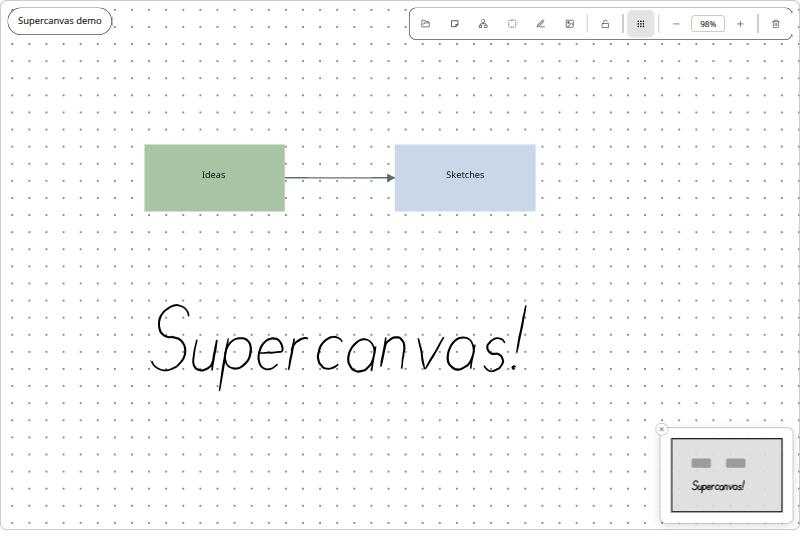
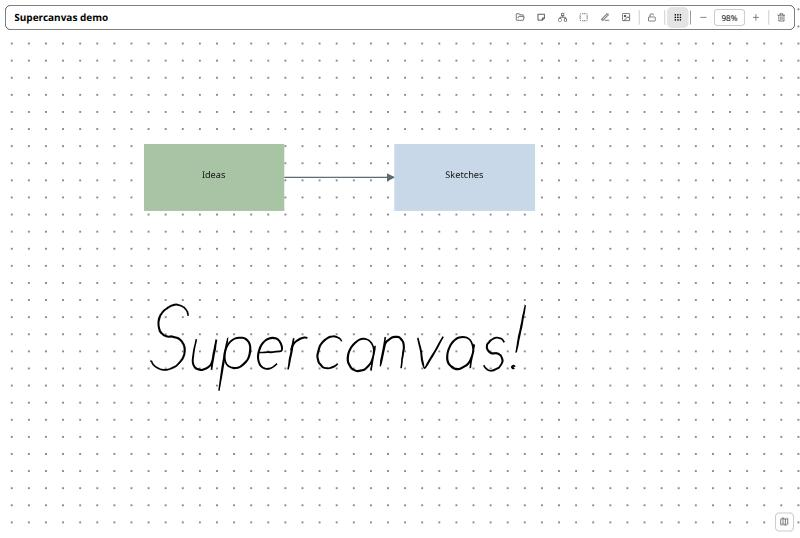
Supercanvas 1.0-beta.2
- One toolbar across the top: the canvas's name (cut short with "…"),
  the tools, then lock, background, zoom and clear (now a trash can);
  more compact, icons unchanged
- Tool strips (pen, shapes) open down the left; tap the tool or ✕ to close
- Screen orientation as in Writerdeck: follow system, sensor, or hold
  portrait/landscape either way up (Canvases panel, Ctrl+Shift+R)
- About Supercanvas in the Canvases panel
- The canvas fills the whole screen, to the bottom edge, in any orientation
- Minimap moved to the bottom right, closed until opened

diff --git a/web/src/eink.css b/web/src/eink.css
@@ -15,11 +15,11 @@ the files panel) is drawn in black on white with big targets.
 .big-btn { font-size: 18px; padding: 14px 26px; border: 2px solid #000; border-radius: 10px; background: #fff; color: #000; }
 
 /* The canvas's name, top middle; a tap opens the files panel. */
-/* The canvas's title: a pill at the top left (the top bar's left end; Supercanvas's layout, below). */
-.sc-title { position: fixed; top: 12px; left: 12px; max-width: 38vw; z-index: 20;
-  height: var(--control-float, 40px); box-sizing: border-box; display: flex; align-items: center;
-  padding: 0 16px; border: 1px solid #000; border-radius: 999px; background: #fff;
-  font-size: 15px; white-space: nowrap; overflow: hidden; text-overflow: ellipsis; }
+/* The canvas's name: the first thing in the top toolbar (CanvasTools), taking the room the tools leave. */
+.tools .sc-title { flex: 1 1 auto; min-width: 0; height: var(--bar-btn); display: flex; align-items: center;
+  margin-right: 6px; padding: 0 10px; border: none; background: none; color: #000; font: inherit; font-size: 16px;
+  font-weight: 600; text-align: left; cursor: pointer; }
+.tools .sc-title span { overflow: hidden; text-overflow: ellipsis; white-space: nowrap; }
 .sc-notice { position: fixed; bottom: 16px; left: 50%; transform: translateX(-50%); z-index: 200;
   padding: 10px 16px; border: 2px solid #000; border-radius: 8px; background: #fff; font-size: 15px; }
 
@@ -106,28 +106,30 @@ the files panel) is drawn in black on white with big targets.
  * .cv-toolbar, put into the row's #sc-viewbar). A tool's own controls (the pen's, the shapes) run down the
  * left side beneath it, until that tool is pressed again or the strip's X.
  */
+:root { --bar-btn: 34px; }
 .tools {
-  top: 12px !important; left: auto !important; right: 12px !important;
-  flex-direction: row !important; align-items: center !important; gap: 2px !important;
-  padding: 3px 4px; background: var(--surface); border: 1px solid #000; border-radius: 12px;
+  top: 8px !important; left: 8px !important; right: 8px !important;
+  flex-direction: row !important; align-items: center !important; gap: 0 !important;
+  padding: 2px 4px; background: var(--surface); border: 1px solid #000; border-radius: 10px;
 }
 /* Inside the one outline, the buttons have none of their own: a tool in hand is shown by its fill. */
 .tools button.tool, .tools .sc-viewbar button.icon-btn {
-  width: var(--control-float, 40px) !important; height: var(--control-float, 40px) !important;
+  width: var(--bar-btn) !important; height: var(--bar-btn) !important;
   border-color: transparent !important; background: transparent !important; box-shadow: none !important;
 }
 .tools button.tool.armed, .tools .sc-viewbar button.icon-btn.on { background: var(--accent-wash, #e4e4e4) !important; }
 .tools .tools-sep, .tools .sc-viewbar .cv-tb-sep {
-  width: 1px; height: calc(var(--control-float, 40px) - 14px); background: var(--line, #999) !important; margin: 0 4px;
+  width: 1px; height: calc(var(--bar-btn) - 12px); background: var(--line, #999) !important; margin: 0 3px; flex: none;
 }
-.sc-viewbar, .tools .sc-viewbar .cv-toolbar { display: flex; align-items: center; gap: 2px; }
+.sc-viewbar, .tools .sc-viewbar .cv-toolbar { display: flex; align-items: center; gap: 0; flex: none; }
+.tools .sc-viewbar input.cv-zoom { width: 50px; height: 26px; }
 .tools .sc-viewbar .cv-toolbar {
   position: static; padding: 0; height: auto;
   border: none !important; background: transparent !important; box-shadow: none !important;
 }
 .tools .tool-menu.tool-strip {
-  position: fixed; top: calc(var(--control-float, 40px) + 24px); left: 12px; right: auto; bottom: auto;
-  width: auto; max-height: calc(100vh - var(--control-float, 40px) - 36px);
+  position: fixed; top: calc(var(--bar-btn) + 20px); left: 8px; right: auto; bottom: auto;
+  width: auto; max-height: calc(100vh - var(--bar-btn) - 32px);
   /* !important: the shape menu's old rule (.tool-menu.shape-row) sets its row direction so. */
   flex-direction: column !important; flex-wrap: nowrap; align-items: center; gap: 4px;
   padding: 6px 4px; overflow-x: hidden; overflow-y: auto; z-index: 26; min-width: 0 !important;
@@ -141,3 +143,27 @@ the files panel) is drawn in black on white with big targets.
 /* The minimap to the bottom right, which the view's controls have left: the left side is the strips'. */
 .cv-wrap .cv-minimap, .cv-wrap .cv-minimap-open { left: auto; right: 10px; }
 .cv-wrap .cv-minimap .cv-minimap-close { right: auto; left: -8px; }
+
+/* About Supercanvas (the Files panel). */
+.files-about { flex: 1; overflow-y: auto; padding: 18px; font-size: 16px; line-height: 1.45; }
+.files-about h2 { margin: 0 0 2px; font-size: 24px; }
+.files-about-version { margin: 0 0 14px; color: #444; }
+.files-about p { margin: 0 0 12px; }
+.files-about dl { display: grid; grid-template-columns: auto 1fr; gap: 6px 14px; margin: 14px 0; }
+.files-about dt { font-weight: 600; }
+.files-about dd { margin: 0; word-break: break-word; }
+.files-about a { color: #000; }
+.files-about-note { font-size: 14px; color: #444; border-top: 1px solid #999; padding-top: 12px; }
+.files-about-open { margin-top: 0; }
+
+/* Screen orientation (the Files panel): a label, then ‹ the choice › */
+.files-orient { display: flex; align-items: center; margin: 10px 18px 0; gap: 6px; }
+.files-orient-label { flex: 1; font-size: 16px; }
+.files-orient-step, .files-orient-value { border: 1.5px solid #000; border-radius: 8px; background: #fff; color: #000;
+  height: 40px; display: inline-flex; align-items: center; justify-content: center; }
+.files-orient-step { width: 40px; }
+.files-orient-value { min-width: 170px; padding: 0 12px; font-size: 16px; }
+
+/* The canvas is the whole window: no frame or rounded corners, the paper running to every edge. */
+.cv-wrap { border: none !important; border-radius: 0 !important; height: 100vh !important; min-height: 0 !important; }
+/* (The height in the stylesheet, not the canvas's own measured one: it follows the screen as it turns.) */

diff --git a/web/src/components/Files.tsx b/web/src/components/Files.tsx
@@ -8,8 +8,9 @@
  * canvases can be filed.
  */
 import { useState } from "react";
-import { ChevronLeft, FileDown, FilePlus, Folder, FolderPlus, Pencil, Trash2, X } from "lucide-react";
+import { ChevronLeft, ChevronRight, FileDown, FilePlus, Folder, FolderPlus, Pencil, Trash2, X } from "lucide-react";
 import { exportCanvas } from "../export.ts";
+import { HOME, VERSION } from "../version.ts";
 import * as store from "../store.ts";
 
 export function Files({
@@ -31,6 +32,8 @@ export function Files({
   const [confirmDelete, setConfirmDelete] = useState(false);
   const [error, setError] = useState<string | null>(null);
   const [said, setSaid] = useState<string | null>(null);
+  const [about, setAbout] = useState(false);
+  const [orient, setOrient] = useState(() => store.orientation());
   const [exporting, setExporting] = useState(false);
   async function exportAs(kind: "png" | "pdf") {
     setError(null);
@@ -77,6 +80,33 @@ export function Files({
           <button className="files-icon" title="Close" onClick={onClose}><X size={20} /></button>
         </div>
 
+        {about ? (
+          <div className="files-about">
+            <h2>Supercanvas</h2>
+            <p className="files-about-version">Version {VERSION}</p>
+            <p>
+              An infinite canvas for the Supernote Nomad: notes, shapes, connections, simple mind maps, pictures and
+              handwriting, with Supernote's own real-time pen engine for the ink.
+            </p>
+            <p>
+              No sync and no accounts: each canvas is one <code>.supercanvas</code> file in the folder you chose,
+              saved a moment after every change.
+            </p>
+            <dl>
+              <dt>License</dt><dd>MIT — free to use, change and share.</dd>
+              <dt>By</dt><dd>Jeff Moore, 2026</dd>
+              <dt>Source</dt><dd><a href={HOME} target="_blank" rel="noreferrer">{HOME.replace("https://", "")}</a></dd>
+              <dt>Built with</dt><dd>React, CodeMirror and Lucide icons (each under its own open-source license).</dd>
+            </dl>
+            <p className="files-about-note">
+              A beta, tested on the Supernote Nomad only. The live ink uses undocumented parts of Supernote's
+              firmware, so a firmware update could change how it behaves.
+            </p>
+            <div className="files-actions">
+              <button onClick={() => setAbout(false)}><ChevronLeft size={16} /> Back</button>
+            </div>
+          </div>
+        ) : (<>
         <div className="files-current">
           <div className="files-current-name">{store.titleOf(current)}</div>
           <div className="files-actions">
@@ -146,9 +176,26 @@ export function Files({
           {!entries.length && <div className="files-empty">No canvases here yet.</div>}
         </div>
 
+        {/* Screen orientation, as in Writerdeck: tap to step through, or ‹ › either way (Ctrl+Shift+R too). */}
+        {store.canOrient() && (
+          <div className="files-orient">
+            <span className="files-orient-label">Orientation</span>
+            <button className="files-orient-step" aria-label="Previous" onClick={() => setOrient(store.stepOrientation(-1))}>
+              <ChevronLeft size={18} />
+            </button>
+            <button className="files-orient-value" onClick={() => setOrient(store.stepOrientation(1))}>
+              {store.ORIENTATION_NAMES[orient]}
+            </button>
+            <button className="files-orient-step" aria-label="Next" onClick={() => setOrient(store.stepOrientation(1))}>
+              <ChevronRight size={18} />
+            </button>
+          </div>
+        )}
         {store.onDevice && (
           <button className="files-change" onClick={() => void store.chooseFolder()}>Use a different folder…</button>
         )}
+        <button className="files-change files-about-open" onClick={() => setAbout(true)}>About Supercanvas</button>
+        </>)}
       </div>
     </div>
   );

diff --git a/web/src/store.ts b/web/src/store.ts
@@ -32,6 +32,7 @@ interface Bridge {
   remove(path: string): boolean;
   rename(path: string, newName: string): boolean;
   setOrientation?(o: string): void;
+  orientation?(): string;
   hasStorage?(): boolean;
   askStorage?(): void;
   storageRoot?(): string;
@@ -120,6 +121,31 @@ export const hasFolder = () => fs.hasFolder();
 export const folderName = () => fs.folderName();
 export const pickFolder = () => fs.pickFolder();
 export const setOrientation = (o: string) => fs.setOrientation?.(o);
+
+/*
+ * Screen orientation, as Writerdeck has it: follow the system's own auto-rotate, turn with the device whatever
+ * that switch says (the sensor), or hold one of the four ways round. Kept by the Android side (its "orient"
+ * preference) and applied as the app starts.
+ */
+export const ORIENTATIONS = ["system", "auto", "portrait", "landscape", "landscape-flip", "portrait-flip"] as const;
+export type Orientation = (typeof ORIENTATIONS)[number];
+export const ORIENTATION_NAMES: Record<Orientation, string> = {
+  system: "Follow system", auto: "Auto (sensor)", portrait: "Portrait", landscape: "Landscape",
+  "landscape-flip": "Landscape (flipped)", "portrait-flip": "Portrait (flipped)",
+};
+/** Whether the screen's orientation can be set here (the Nomad, not a desktop browser). */
+export const canOrient = () => Boolean(bridge?.setOrientation);
+export function orientation(): Orientation {
+  const o = bridge?.orientation?.() as Orientation | undefined;
+  return o && ORIENTATIONS.includes(o) ? o : "system";
+}
+/** The next orientation along (or back, with dir -1), set and kept; the one now. */
+export function stepOrientation(dir = 1): Orientation {
+  const i = ORIENTATIONS.indexOf(orientation());
+  const next = ORIENTATIONS[(i + dir + ORIENTATIONS.length) % ORIENTATIONS.length]!;
+  setOrientation(next);
+  return next;
+}
 
 /** Folders and canvases directly inside `path`, folders first, then newest first. */
 export function list(path = ""): Entry[] {

diff --git a/web/src/main.tsx b/web/src/main.tsx
@@ -67,7 +67,7 @@ function Canvas({ path, onFiles }: { path: string; onFiles: () => void }) {
   return (
     <>
       <CanvasView collection={state.collection} members={state.members} types={[]} onChanged={() => void read()} />
-      <CanvasTools onPlaced={() => read()} onFiles={onFiles} />
+      <CanvasTools title={store.titleOf(path)} onPlaced={() => read()} onFiles={onFiles} />
     </>
   );
 }
@@ -84,6 +84,19 @@ function App() {
     kind: a.kind,
     done: (v) => { setPicking(null); a.done(v); },
   })), []);
+
+  // Ctrl+Shift+R: the screen's orientation, one step along (as in Writerdeck).
+  useEffect(() => {
+    const key = (e: KeyboardEvent) => {
+      if ((e.ctrlKey || e.metaKey) && e.shiftKey && e.key.toLowerCase() === "r" && store.canOrient()) {
+        e.preventDefault();
+        const now = store.stepOrientation(1);
+        setNotice(`Orientation: ${store.ORIENTATION_NAMES[now]}`);
+      }
+    };
+    addEventListener("keydown", key);
+    return () => removeEventListener("keydown", key);
+  }, []);
 
   // The Android side says when a folder has been picked.
   useEffect(() => {
@@ -144,7 +157,6 @@ function App() {
     <>
       {/* Keyed by file, so a canvas switched to starts clean. */}
       <Canvas key={path} path={path} onFiles={() => setFilesOpen((o) => !o)} />
-      <div className="sc-title" onClick={() => setFilesOpen(true)}>{store.titleOf(path)}</div>
       {filesOpen && (
         <Files
           current={path}

diff --git a/web/src/components/CanvasTools.tsx b/web/src/components/CanvasTools.tsx
@@ -103,7 +103,7 @@ function atPoint(clientX: number, clientY: number): { x: number; y: number } {
 }
 
 
-export function CanvasTools({ onPlaced, onFiles }: { onPlaced: () => void | Promise<void>; onFiles: () => void }) {
+export function CanvasTools({ title, onPlaced, onFiles }: { title: string; onPlaced: () => void | Promise<void>; onFiles: () => void }) {
   const [shape, setShape] = useState("postIt");
   const [shapesOpen, setShapesOpen] = useState(false);
   const [dragging, setDragging] = useState<string | null>(null);
@@ -243,6 +243,9 @@ export function CanvasTools({ onPlaced, onFiles }: { onPlaced: () => void | Prom
 
   return (
     <div className="tools">
+      {/* The canvas's name, first in the bar and taking what room is left (cut short with "…"); tapping it opens
+          the canvases, as the folder button does. */}
+      <button className="sc-title" title={title} onClick={onFiles}><span>{title}</span></button>
       {tool("files", "Canvases: open, new, rename", <FolderOpen size={15} />, onFiles)}
       <div className="tool-row">
         {/*

diff --git a/web/src/components/Minimap.tsx b/web/src/components/Minimap.tsx
@@ -15,7 +15,9 @@ import { centerline, onInk, paint } from "../ink.ts";
 type Rect = { x: number; y: number; w: number; h: number };
 type View = { x: number; y: number; z: number };
 
-const KEPT = "talaris-minimap";
+// Supercanvas: closed until opened (the map button, bottom right), and remembered after. A key of its own, so a
+// map left open by an earlier build starts closed too.
+const KEPT = "supercanvas.minimap";
 /** The map's size on screen, at most. */
 const MAP_W = 200, MAP_H = 140;
 
@@ -27,7 +29,7 @@ export function Minimap({ boxes, regions, view, setView, wrap }: {
   wrap: React.RefObject<HTMLDivElement | null>;
 }) {
   const [open, setOpen] = useState<boolean>(() => {
-    try { return localStorage.getItem(KEPT) !== "closed"; } catch { return true; }
+    try { return localStorage.getItem(KEPT) === "open"; } catch { return false; }
   });
   useEffect(() => {
     try { localStorage.setItem(KEPT, open ? "open" : "closed"); } catch { /* private */ }

diff --git a/web/src/components/CanvasView.tsx b/web/src/components/CanvasView.tsx
@@ -636,7 +636,8 @@ export function CanvasView({
        * subtracting again gave the bottom 34 and the other three 22, which is
        * exactly the uneven gap it looks like.
        */
-      const hair = document.documentElement.classList.contains("framed") ? 0 : 12;
+      // Supercanvas: the canvas is the whole window, edge to edge, so nothing is held back at the bottom.
+      const hair = 0;
       setWrapH(Math.max(460, window.innerHeight - el.getBoundingClientRect().top - hair));
     };
     measure();

diff --git a/web/src/version.ts b/web/src/version.ts
@@ -1,0 +1,6 @@
+// SPDX-License-Identifier: MIT
+// Copyright (c) 2026 Jeff Moore
+/** The app's version, as shown in About (keep in step with android/app/build.gradle's versionName). */
+export const VERSION = "1.0-beta.2";
+/** Where its source and releases live. */
+export const HOME = "https://github.com/jpmoo/supercanvas";

diff --git a/android/app/src/main/java/net/supercanvas/MainActivity.java b/android/app/src/main/java/net/supercanvas/MainActivity.java
@@ -738,6 +738,9 @@ public class MainActivity extends Activity {
             });
         }
 
+        /** The screen orientation chosen (setOrientation), "system" until one is. */
+        @JavascriptInterface public String orientation() { return prefs.getString("orient", "system"); }
+
         @JavascriptInterface public void setOrientation(String o) {
             prefs.edit().putString("orient", o).apply();
             runOnUiThread(() -> applyOrientation(o));

diff --git a/README.md b/README.md
@@ -10,12 +10,13 @@ every change.
 
 ## Tools
 
-The toolbar sits at the top right. Tools with options (the pen, shapes) open a strip down the left side;
-tap the tool again, or the strip's ✕, to put it away.
+One toolbar runs across the top: the canvas's name on the left (tap it for your canvases), the tools on the
+right. Tools with options (the pen, shapes) open a strip down the left side; tap the tool again, or the
+strip's ✕, to put it away.
 
 | Tool | What it does |
 | --- | --- |
-| **Canvases** | Open, create, rename and delete canvases; folders; **Export PNG / PDF** of the whole canvas. Also opened by tapping the title. |
+| **Canvases** | Open, create, rename and delete canvases; folders; **Export PNG / PDF** of the whole canvas; screen **Orientation**; **About**. Also opened by tapping the canvas's name. |
 | **Shapes** | Drag onto the canvas to drop a note: text, post-it, rounded, rectangle, ellipse, triangle. Tap to choose the shape. Double-tap a note to type (Markdown with live preview). |
 | **Mind map** | Drops a mind-map root. Long-press a node for *Add a child / parent / sibling*. |
 | **Select** | Draw a lasso around notes and ink to select them, then drag inside the selection to move it, or tap **Delete**. |
@@ -27,17 +28,19 @@ Also on the canvas:
 
 - **Connections:** drag a note onto another to connect them; tap a line to bend it, long-press for its options.
 - **Regions** group notes; long-press for menus (colors, borders, text alignment, and more).
-- **Navigation:** one finger pans, two fingers pinch to zoom; a minimap in the corner. Your palm is ignored
-  while the pen is near.
+- **Navigation:** one finger pans, two fingers pinch to zoom; a minimap (bottom right, closed until you open
+  it). Your palm is ignored while the pen is near.
+- **Orientation:** follow the system, turn with the device, or hold portrait or landscape (either way up),
+  from the Canvases panel or Ctrl+Shift+R.
 
 ## Install
 
 1. On the Nomad, turn on sideloading: **Settings → Security & Privacy → Sideloading** (wording may vary by firmware).
-2. Download `supercanvas-1.0-beta.1.apk` from the [Releases](../../releases) page, copy it to the Nomad
+2. Download `supercanvas-1.0-beta.2.apk` from the [Releases](../../releases) page, copy it to the Nomad
    (USB, or download it there in the browser) and open it to install.
 3. Open **Supercanvas**, choose (or make) a folder for your canvases, and allow access to storage when asked.
 
-Or, with USB debugging on: `adb install -r supercanvas-1.0-beta.1.apk`.
+Or, with USB debugging on: `adb install -r supercanvas-1.0-beta.2.apk`.
 
 ## Notes
 
